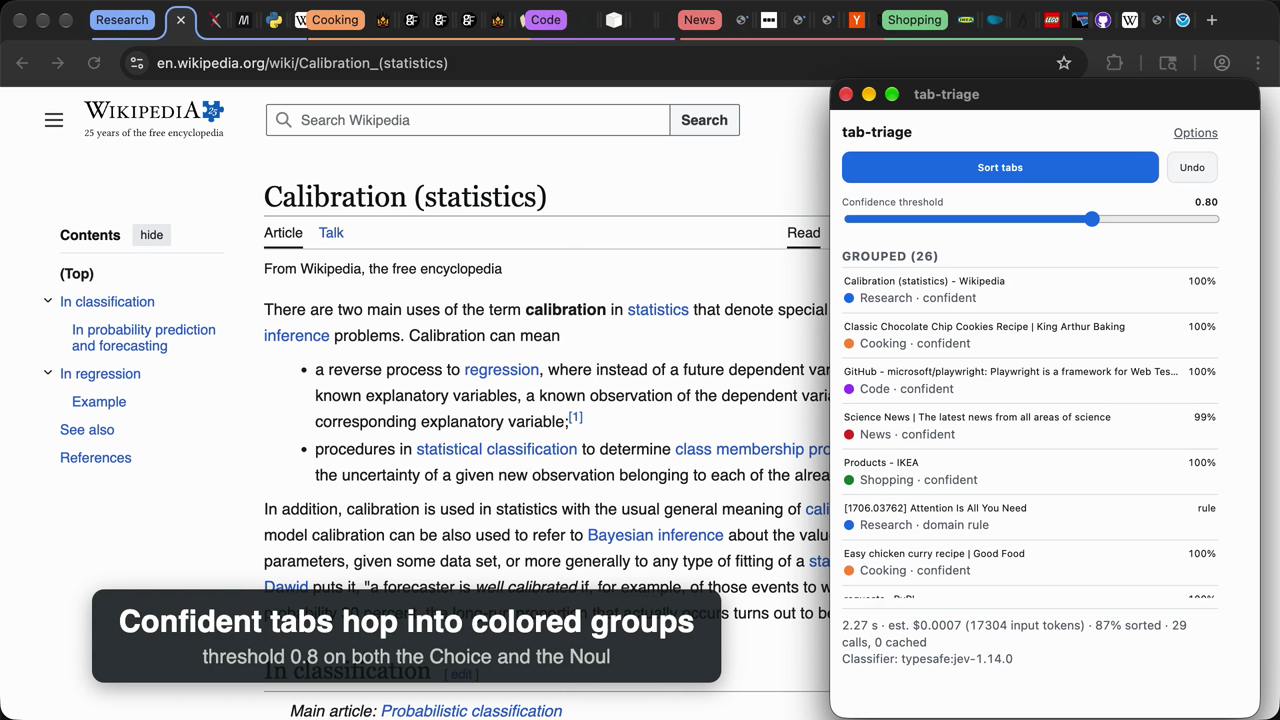
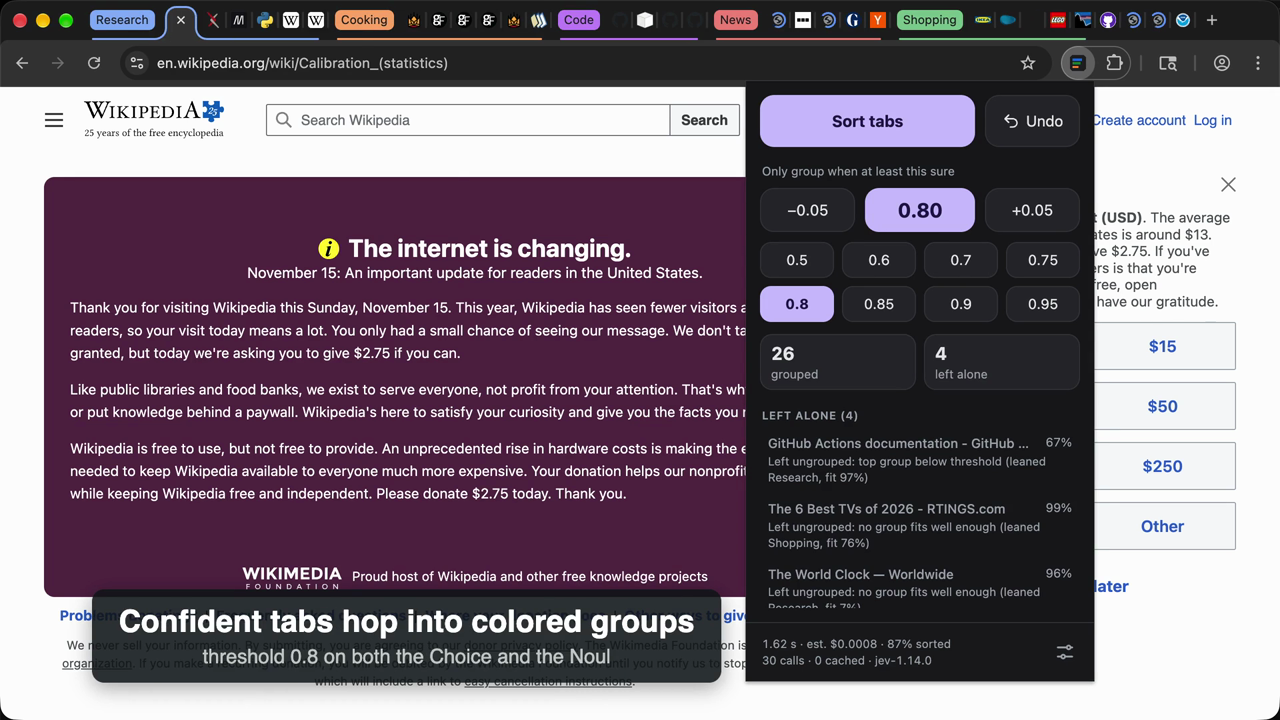
docs(demo): re-record with the toolbar dropdown; replace a dead review URL

diff --git a/demo/run.ts b/demo/run.ts
@@ -147,15 +147,15 @@ try {
     urls.map((u, i) => pages[i]!.goto(u, { waitUntil: "domcontentloaded", timeout: 25_000 }).catch(() => console.warn(`  (slow or failed: ${u})`))),
   );
   await sleep(2500);
-  // Bot-check interstitials make bad demo tabs; name them so urls.json can be fixed.
+  // Bot-check interstitials and dead pages make bad demo tabs; name them so urls.json can be fixed.
   const blocked: string[] = [];
   for (const [i, p] of pages.entries()) {
     const title = await p.title().catch(() => "");
-    if (/just a moment|attention required|verify you are human|access denied|are you a robot/i.test(title)) blocked.push(`${urls[i]} → "${title}"`);
+    if (/just a moment|attention required|verify you are human|access denied|are you a robot|not found|\b404\b/i.test(title)) blocked.push(`${urls[i]} → "${title}"`);
   }
   for (const b of blocked) console.warn(`  (bot check: ${b})`);
   // A rehearsal can live with them; the published video shouldn't show challenge pages.
-  if (blocked.length && !MOCK) throw new Error(`${blocked.length} page(s) served a bot check: replace them in demo/urls.json and re-run`);
+  if (blocked.length && !MOCK) throw new Error(`${blocked.length} page(s) served a bot check or a 404: replace them in demo/urls.json and re-run`);
   await sw.evaluate(async (wid) => {
     const tabs = await chrome.tabs.query({ windowId: wid });
     await chrome.tabs.update(tabs[0]!.id!, { active: true });

diff --git a/docs/DEVLOG.md b/docs/DEVLOG.md
@@ -110,3 +110,11 @@ Noted, not acted on (one probe is too few cases to tune on, which TypeSafe's ski
 `npm run demo` with the real classifier: 30 public pages, 29 API calls (one tab went through the arXiv domain rule), 17,304 input tokens, $0.00073, 2.3 s from click to grouped. 26 tabs were grouped into five groups and 4 were left alone: GitHub Actions docs (62%), Maillard reaction (77%, so no reversed re-ask was needed), timeanddate (Noul 0.08) and weather.gov (Noul 0.12). The end card reads these numbers from the run's own report. I checked frames for every step (messy, grouped, left alone, collapsed, undone) and the frame check: only the browser window is in frame. The video is 36.1 s, H.264, yuv420p, faststart; the GIF is 1.5 MB. Only `demo/demo.gif` and `demo/poster.png` are committed. The MP4 stays in gitignored `demo/out/`.
 
 One thing to watch: the Wirecutter tab's title came through as "nyt.net" rather than the article title (the page probably didn't finish loading or served an interstitial that the bot-check filter doesn't recognise). It was grouped as News from that. Replace that URL before re-recording.
+
+## 12. Popup redesign and the real dropdown
+
+The popup was restyled after a reference the user shared: large rounded tiles, the threshold as a −/value/+ stepper with preset chips instead of a slider, summary chips, tabs left alone listed first (they're the ones that may need attention; the grouped ones are visible in the tab strip), and an icon footer. The layout is a flex column capped at 600 px, which is Chrome's limit for an action popup, so the footer always shows and the list scrolls.
+
+The demo now shows Chrome's real toolbar dropdown, opened with `chrome.action.openPopup()`, instead of a separate popup window. Playwright can't click inside an action popup, so the demo starts the sort and undo through the worker. To make that honest, the popup now updates itself live: the worker records a running sort or undo in `storage.session` (`run:<windowId>`), and the popup re-renders on session changes. That also fixes the review #3 nit that a popup opened mid-run stayed disabled. The e2e test covers it: a sort started from the worker shows up in an already-open popup.
+
+Re-recorded with the real classifier: 26 of 30 grouped, 1.6 s, $0.00075 for 30 calls. The Wirecutter URL now 404s, so it was replaced with an RTINGS review page, and a real run now also stops on "not found"/404 titles. RTINGS was left alone because its Choice said shopping at 0.99 but the Noul only 0.76, another case for the eval's question about the Noul threshold.

diff --git a/README.md b/README.md
@@ -4,7 +4,7 @@ A Chrome extension that sorts your open tabs into **native Chrome tab groups**, 
 
 ![tab-triage sorting 30 real tabs into Chrome tab groups, then undoing it](demo/demo.gif)
 
-*Real extension, real Chromium tab strip, real classifier (TypeSafe `jev-1.14.0`), recorded with `npm run demo`. On this run: 26 of 30 tabs grouped, 4 left alone, 2.3 s, $0.00073 for 29 API calls. One run on 30 public pages, not an accuracy result.*
+*Real extension, real Chromium tab strip, real toolbar dropdown, real classifier (TypeSafe `jev-1.14.0`), recorded with `npm run demo`. On this run: 26 of 30 tabs grouped, 4 left alone, 1.6 s, $0.00075 for 30 API calls (one was a reversed-order re-ask). One run on 30 public pages, not an accuracy result.*
 
 ## What it does
 
